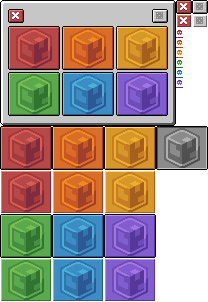
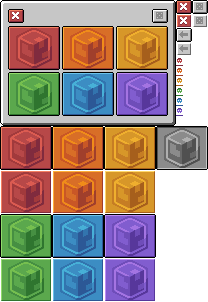
New open world menu for /navigator

Changed region(s): [[0.8365, 0.0894, 0.9231, 0.3874]]

diff --git a/common/src/main/java/com/mikarific/originaddons/menu/menus/NavigatorOpenWorldMenu.java b/common/src/main/java/com/mikarific/originaddons/menu/menus/NavigatorOpenWorldMenu.java
@@ -13,13 +13,12 @@ import net.minecraft.client.network.ClientPlayerEntity;
 import net.minecraft.screen.ScreenHandler;
 import net.minecraft.util.Identifier;
 
-public class NavigatorBalloonsMenu extends CustomMenu {
-    public static final String TITLE = "슥";
+public class NavigatorOpenWorldMenu extends CustomMenu {
+    public static final String TITLE = "꣓";
+    public static final Identifier TEXTURE = new Identifier("originaddons", "gui/custommenus/navigator_open_world.png");
 
-    public static final Identifier TEXTURE = new Identifier("originaddons", "gui/custommenus/navigator_balloon.png");
-
-    public static final int TEXTURE_WIDTH = 192;
-    public static final int TEXTURE_HEIGHT = 314;
+    public static final int TEXTURE_WIDTH = 208;
+    public static final int TEXTURE_HEIGHT = 302;
 
     @Override
     protected void init(Screen screen, Window window) {
@@ -28,17 +27,28 @@ public class NavigatorBalloonsMenu extends CustomMenu {
         ScreenHandler screenHandler = player.currentScreenHandler;
 
         int MENU_WIDTH = 176;
-        int MENU_HEIGHT = 110;
+        int MENU_HEIGHT = 126;
         UIComponent box = new UITexture(TEXTURE, (screen.width - MENU_WIDTH) / 2, (screen.height - MENU_HEIGHT) / 2, MENU_WIDTH, MENU_HEIGHT, 0, 0, TEXTURE_WIDTH, TEXTURE_HEIGHT).setChildOf(window);
 
-        // Red Balloon
-        addBalloonButton(box, screen, screenHandler, 8, 26, 79, 34, 0, 110, 34, 9, null, 110);
-        // Yellow Balloon
-        addBalloonButton(box, screen, screenHandler, 89, 26, 79, 34, 79,  110, 34, 17, "슧", 178);
-        // Blue Balloon
-        addBalloonButton(box, screen, screenHandler, 8, 62, 79, 34, 0, 212, 34, 27, "슨", 280);
-        // Green Balloon
-        addBalloonButton(box, screen, screenHandler, 89, 62, 79, 34, 79, 212, 34, 35, "슦", 280);
+        // Red
+        addWorldButton(box, screen, screenHandler, 8, 26, 52, 44, 0, 126, 44, 9, "꣔", "꣚", 56);
+        // Orange
+        addWorldButton(box, screen, screenHandler, 62, 26, 52, 44, 52, 126, 44, 13, "꣕", "꣛", 66);
+        // Yellow
+        addWorldButton(box, screen, screenHandler,  116, 26, 52, 44, 104, 126, 44, 17, "꣖", "꣜", 76 );
+        // Green
+        addWorldButton(box, screen, screenHandler, 8, 72, 52,  44, 0, 214, 44,  36, "꣗", "꣝", 86);
+        // Blue
+        addWorldButton(box, screen, screenHandler, 62, 72, 52, 44, 52, 214, 44, 40, "꣘", "꣞", 96);
+        // Purple
+        addWorldButton(box, screen, screenHandler, 116, 72, 52, 44, 104, 214, 44, 44, "꣙", "꣟", 106);
+
+        // Random Button
+        addSelectableElement(new UIButton(TEXTURE, 152, 9, 16, 14, 192,  0, 14, TEXTURE_WIDTH, TEXTURE_HEIGHT, () -> {
+            MenuUtils.pickupItemAtSlot(8);
+        }, (b, m, x, y) -> {
+            screen.renderTooltip(m, MenuUtils.getDisplayTooltip(screenHandler.getSlot(8).getStack()), (int) x, (int) y);
+        }, false).setChildOf(box));
 
         // Close button
         String backButton = "꣡";
@@ -54,16 +64,18 @@ public class NavigatorBalloonsMenu extends CustomMenu {
         }, false).setChildOf(box));
     }
 
-    private void addBalloonButton(UIComponent box, Screen screen, ScreenHandler screenHandler, int x, int y, int width, int height, int u, int v, int hoveredVOffset, int slot, String disabledTitleChar, int vDisabled) {
+    private void addWorldButton(UIComponent box, Screen screen, ScreenHandler screenHandler, int x, int y, int width, int height, int u, int v, int hoveredVOffset, int slot, String disabledChar, String graveChar, int graveV) {
+        int finalU = u;
         int finalV = v;
         int finalHoveredVOffset = hoveredVOffset;
-        boolean disabled = disabledTitleChar != null && screen.getTitle().getString().contains(disabledTitleChar);
+        boolean disabled = screen.getTitle().getString().contains(disabledChar);
         if (disabled) {
-            finalV = vDisabled;
+            finalU = 156;
+            finalV = 126;
             finalHoveredVOffset = 0;
         }
 
-        UIComponent button = new UIButton(TEXTURE, x, y, width, height, u, finalV, finalHoveredVOffset, TEXTURE_WIDTH, TEXTURE_HEIGHT, () -> {
+        UIComponent button = new UIButton(TEXTURE, x, y, width, height, finalU, finalV, finalHoveredVOffset, TEXTURE_WIDTH, TEXTURE_HEIGHT, () -> {
             MenuUtils.pickupItemAtSlot(slot);
         }, (b, m, tx, ty) -> {
             screen.renderTooltip(m, MenuUtils.getDisplayTooltip(screenHandler.getSlot(slot).getStack()), (int) tx, (int) ty);
@@ -71,6 +83,10 @@ public class NavigatorBalloonsMenu extends CustomMenu {
 
         if (!disabled) {
             addSelectableElement(button);
+        }
+
+        if (screen.getTitle().getString().contains(graveChar)) {
+            UIComponent grave = new UITexture(TEXTURE, 41, 30, 7, 10, 176, graveV, TEXTURE_WIDTH, TEXTURE_HEIGHT).setChildOf(button);
         }
     }
 

diff --git a/common/src/main/java/com/mikarific/originaddons/menu/CustomMenus.java b/common/src/main/java/com/mikarific/originaddons/menu/CustomMenus.java
@@ -13,6 +13,7 @@ public class CustomMenus {
     public static void init() {
         menus.add(new NavigatorMenu());
         menus.add(new NavigatorBalloonsMenu());
+        menus.add(new NavigatorOpenWorldMenu());
         // menus.add(new AuctionHouseMenu());
         // menus.add(new BadgesMenu());
         // menus.add(new GesturesAllMenu());
